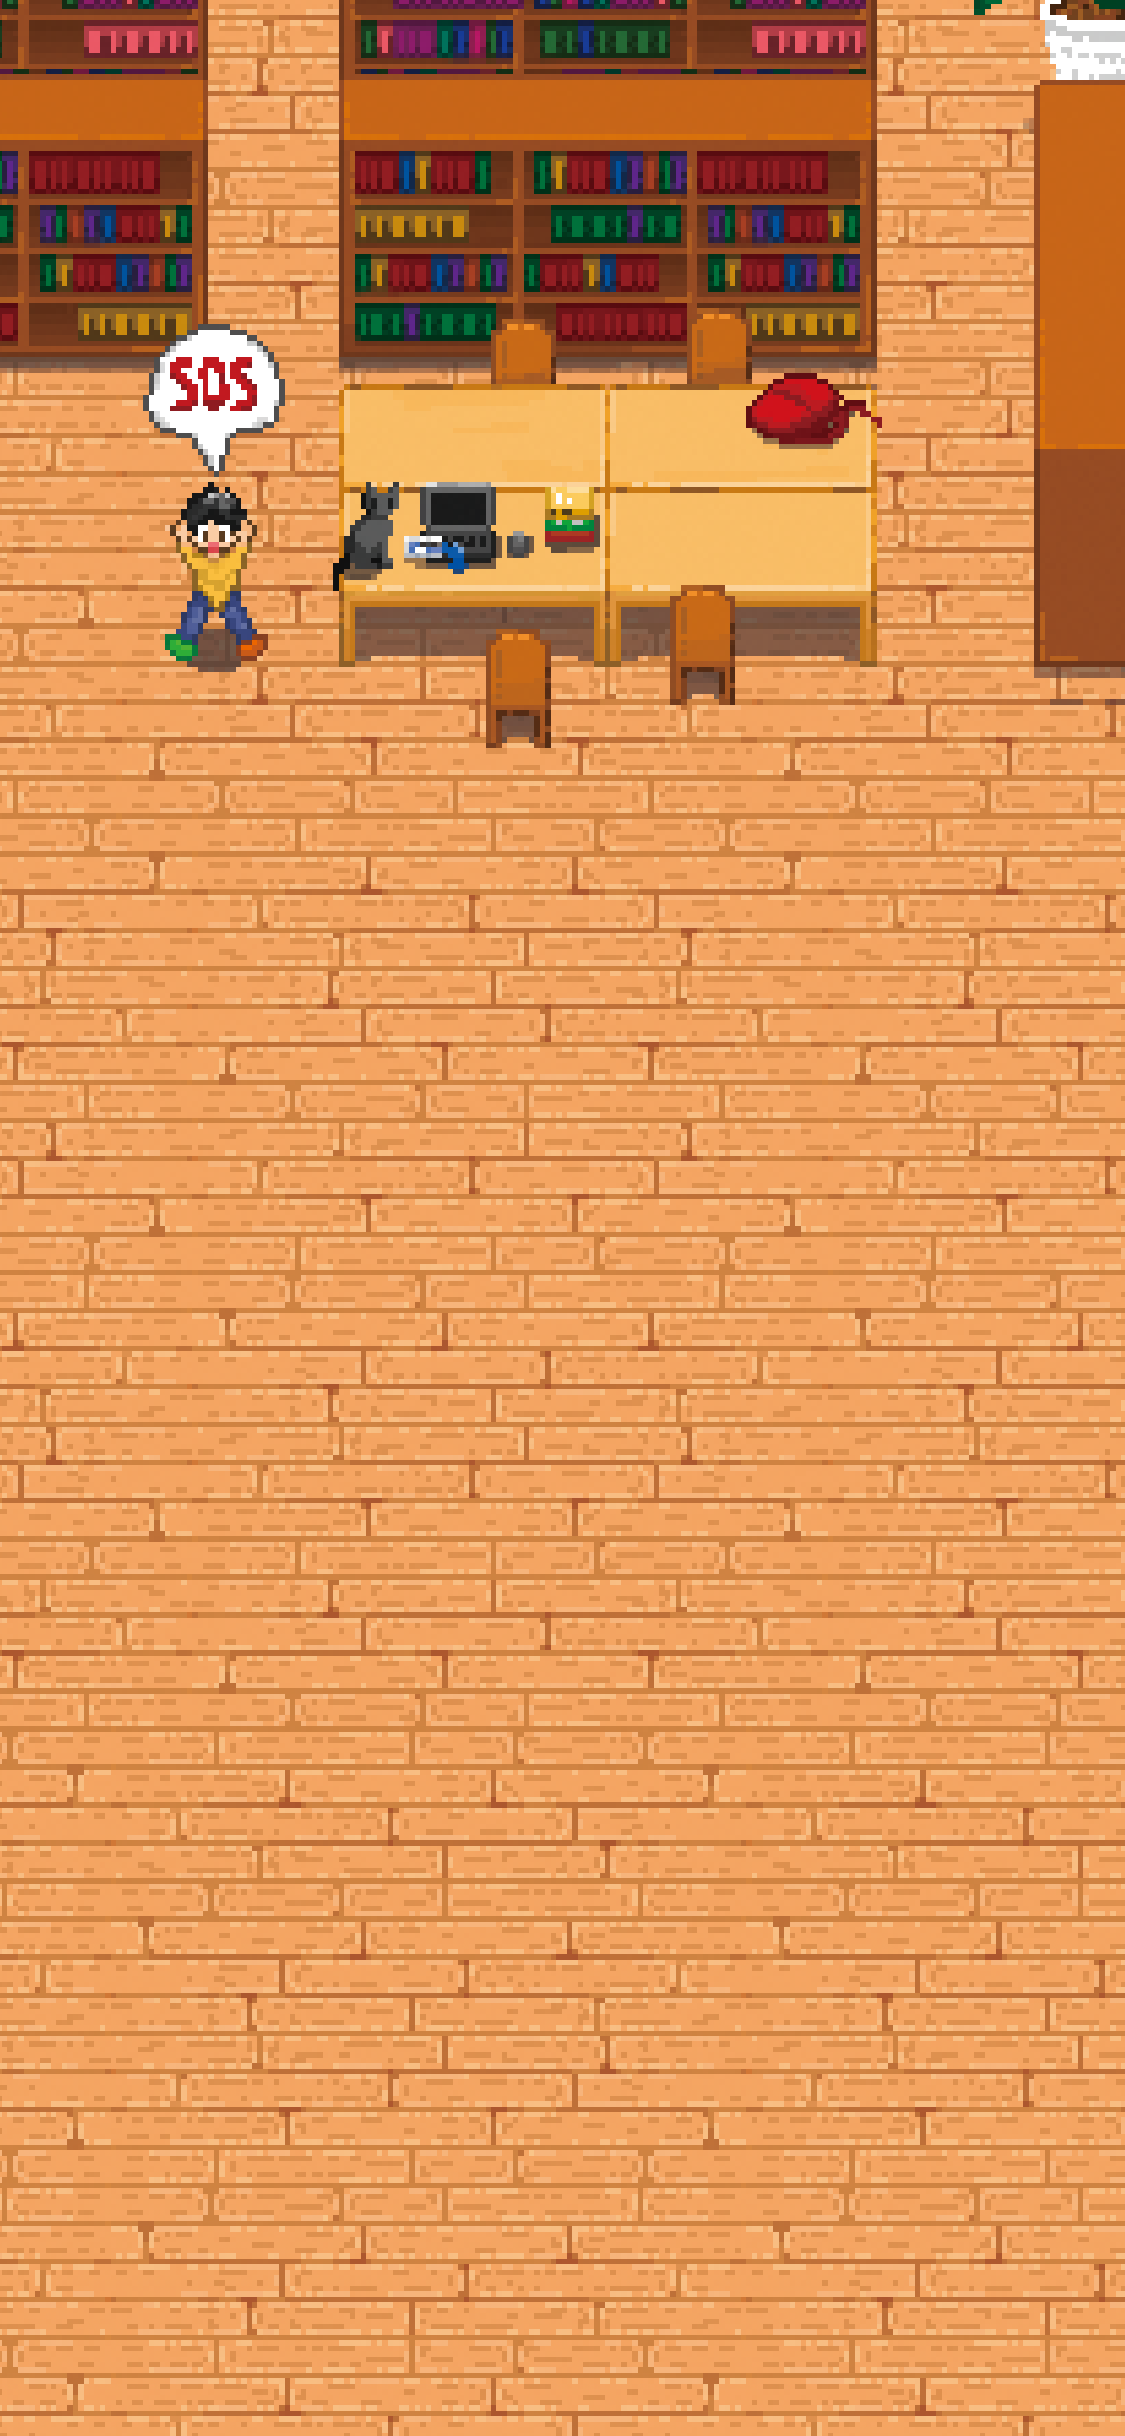
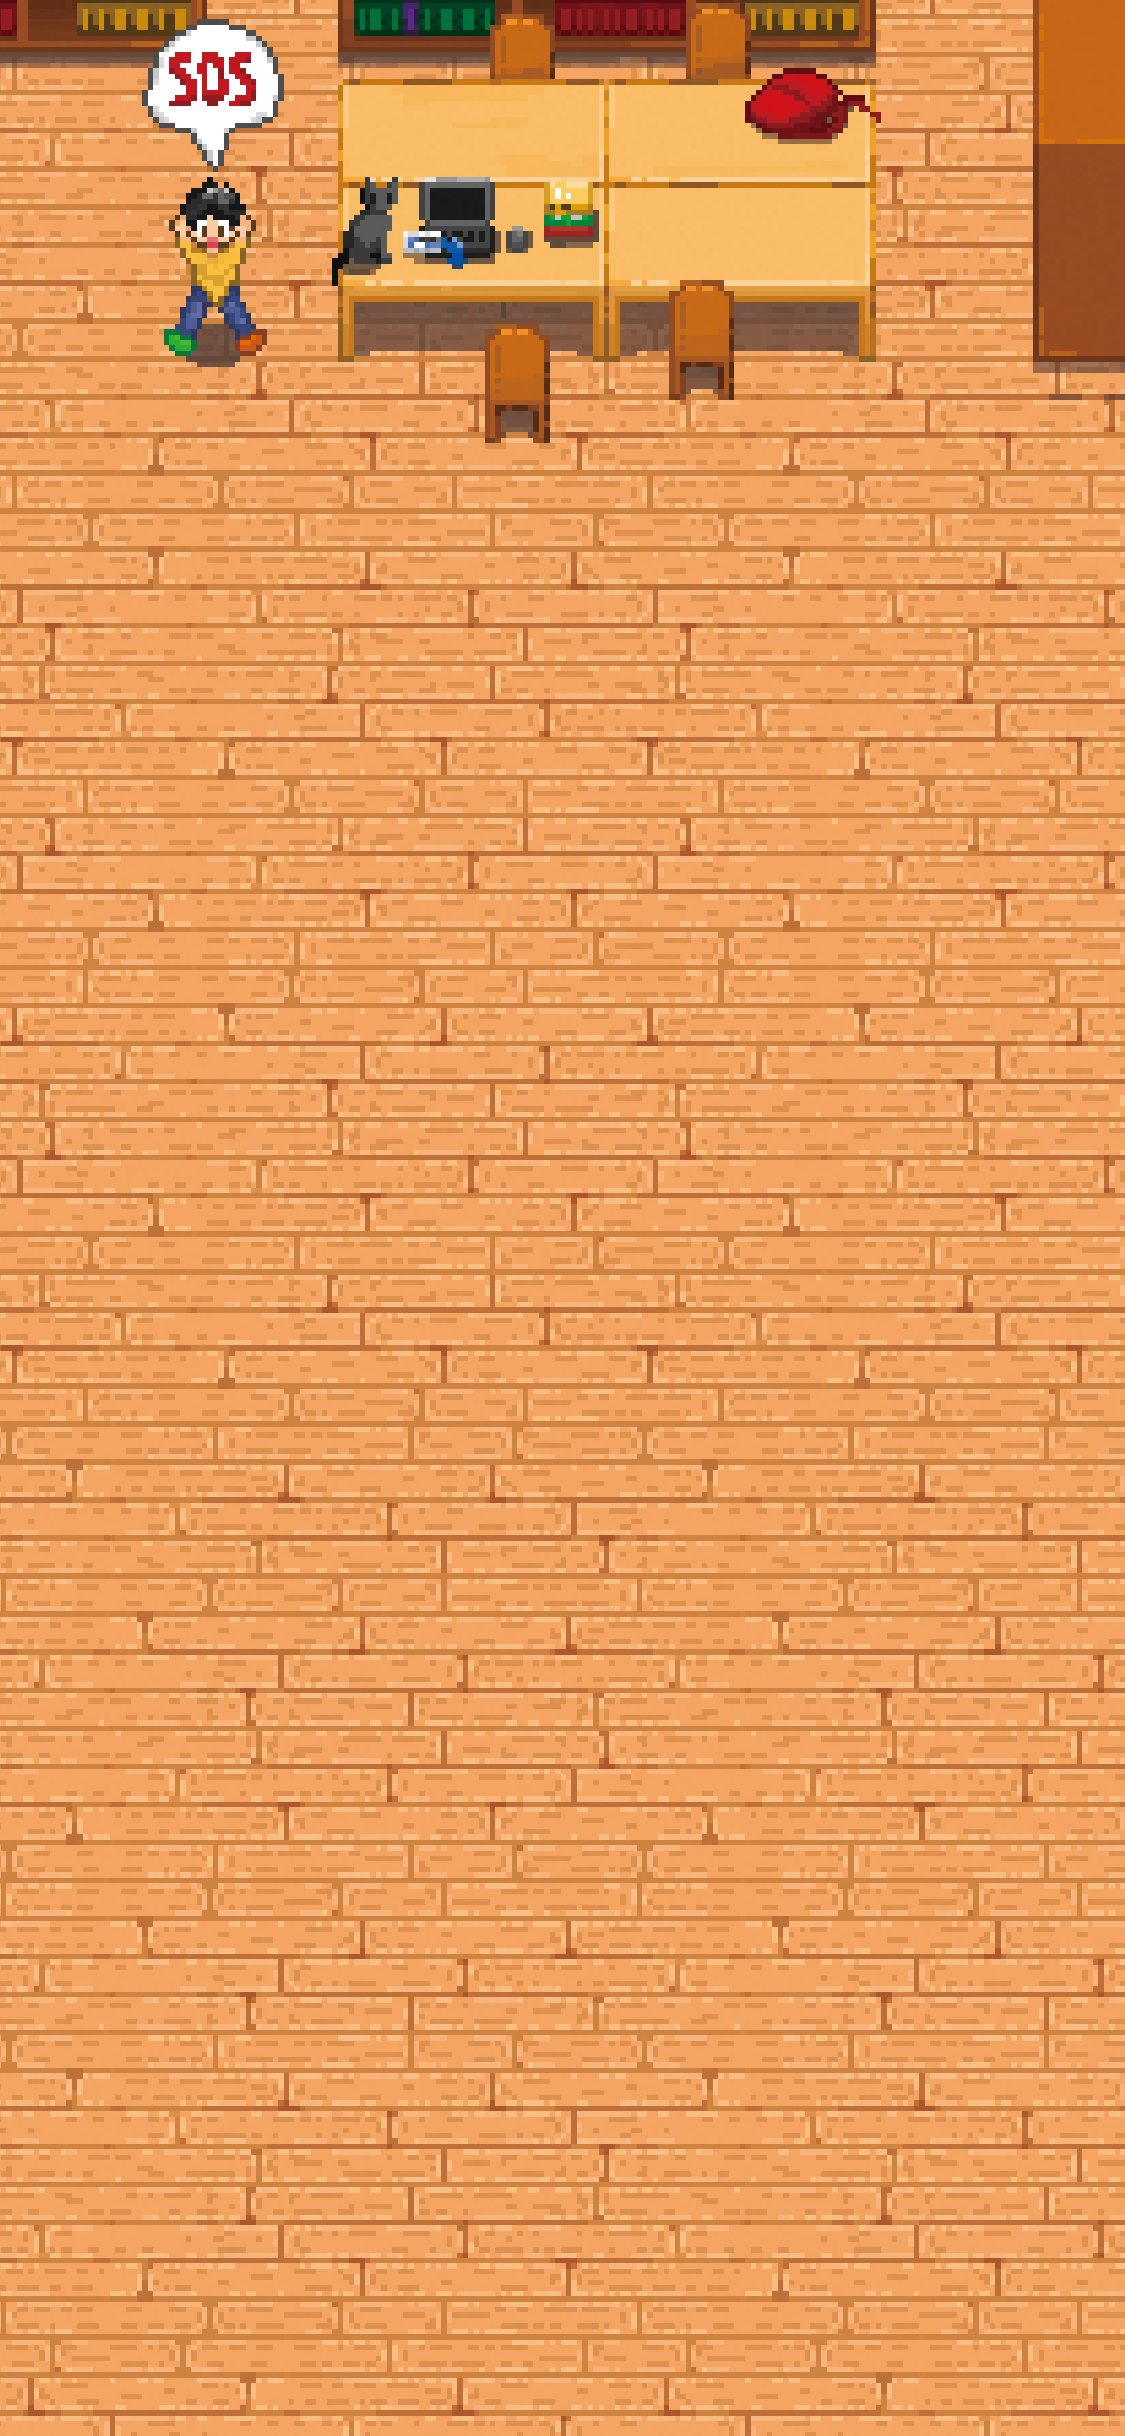
yeah

diff --git a/index.html b/index.html
@@ -1,22 +1,23 @@
 <!DOCTYPE html>
-<html>
+<html lang="zh">
 <head>
     <meta charset="utf-8"> 
     <title>啊呀</title>
 </head>
 
-    <body background="background.png" style="background-size:cover;">
-        <div style="margin-top: 65vw;height: calc(100vh - 30px - 95vw);position:relative;">    
+    <body style="background-image:  url(background.png);background-size:cover;opacity: 0.85;">
+        <div style="margin-top: 34vw;height: calc(100vh - 30px - 60vw);position:relative;">
             <img src="div1.png" style="width: 100%;display: block;"/>
-            <img src="div2.png" style="width: 100%;height: calc(80% - 88px);display: block;"/>
+            <img src="div2.png" style="width: 100%;height: calc(100% - 40vw);display: block;bottom: 10vw;position: absolute;z-index: -1;"/>
             <img src="div3.png" style="width: 100%;display: block;bottom: 0;position: absolute;"/>
         </div>
         <div style="position: absolute;bottom: 30px;width: calc(100vw - 10px);display: flex;justify-content: space-between;">
-            <div style="width: 25vw"><img src="r_b.png" style="width: 93%"/></div>
+            <a href="https://table.nju.edu.cn/dtable/forms/175053ee-02fe-41b1-8dff-5e3adb6cc2e3/">
+                <div style="width: 25vw"><img src="r_b.png" style="width: 93%"/></div>
+            </a>
             <div style="width: 25vw"><img src="g_b.png" style="width: 93%"/></div>
             <div style="width: 25vw"><img src="y_b.png" style="width: 93%"/></div>
             <div style="width: 25vw"><img src="b_b.png" style="width: 93%"/></div>
         </div>
     </body>
-
 </html>
